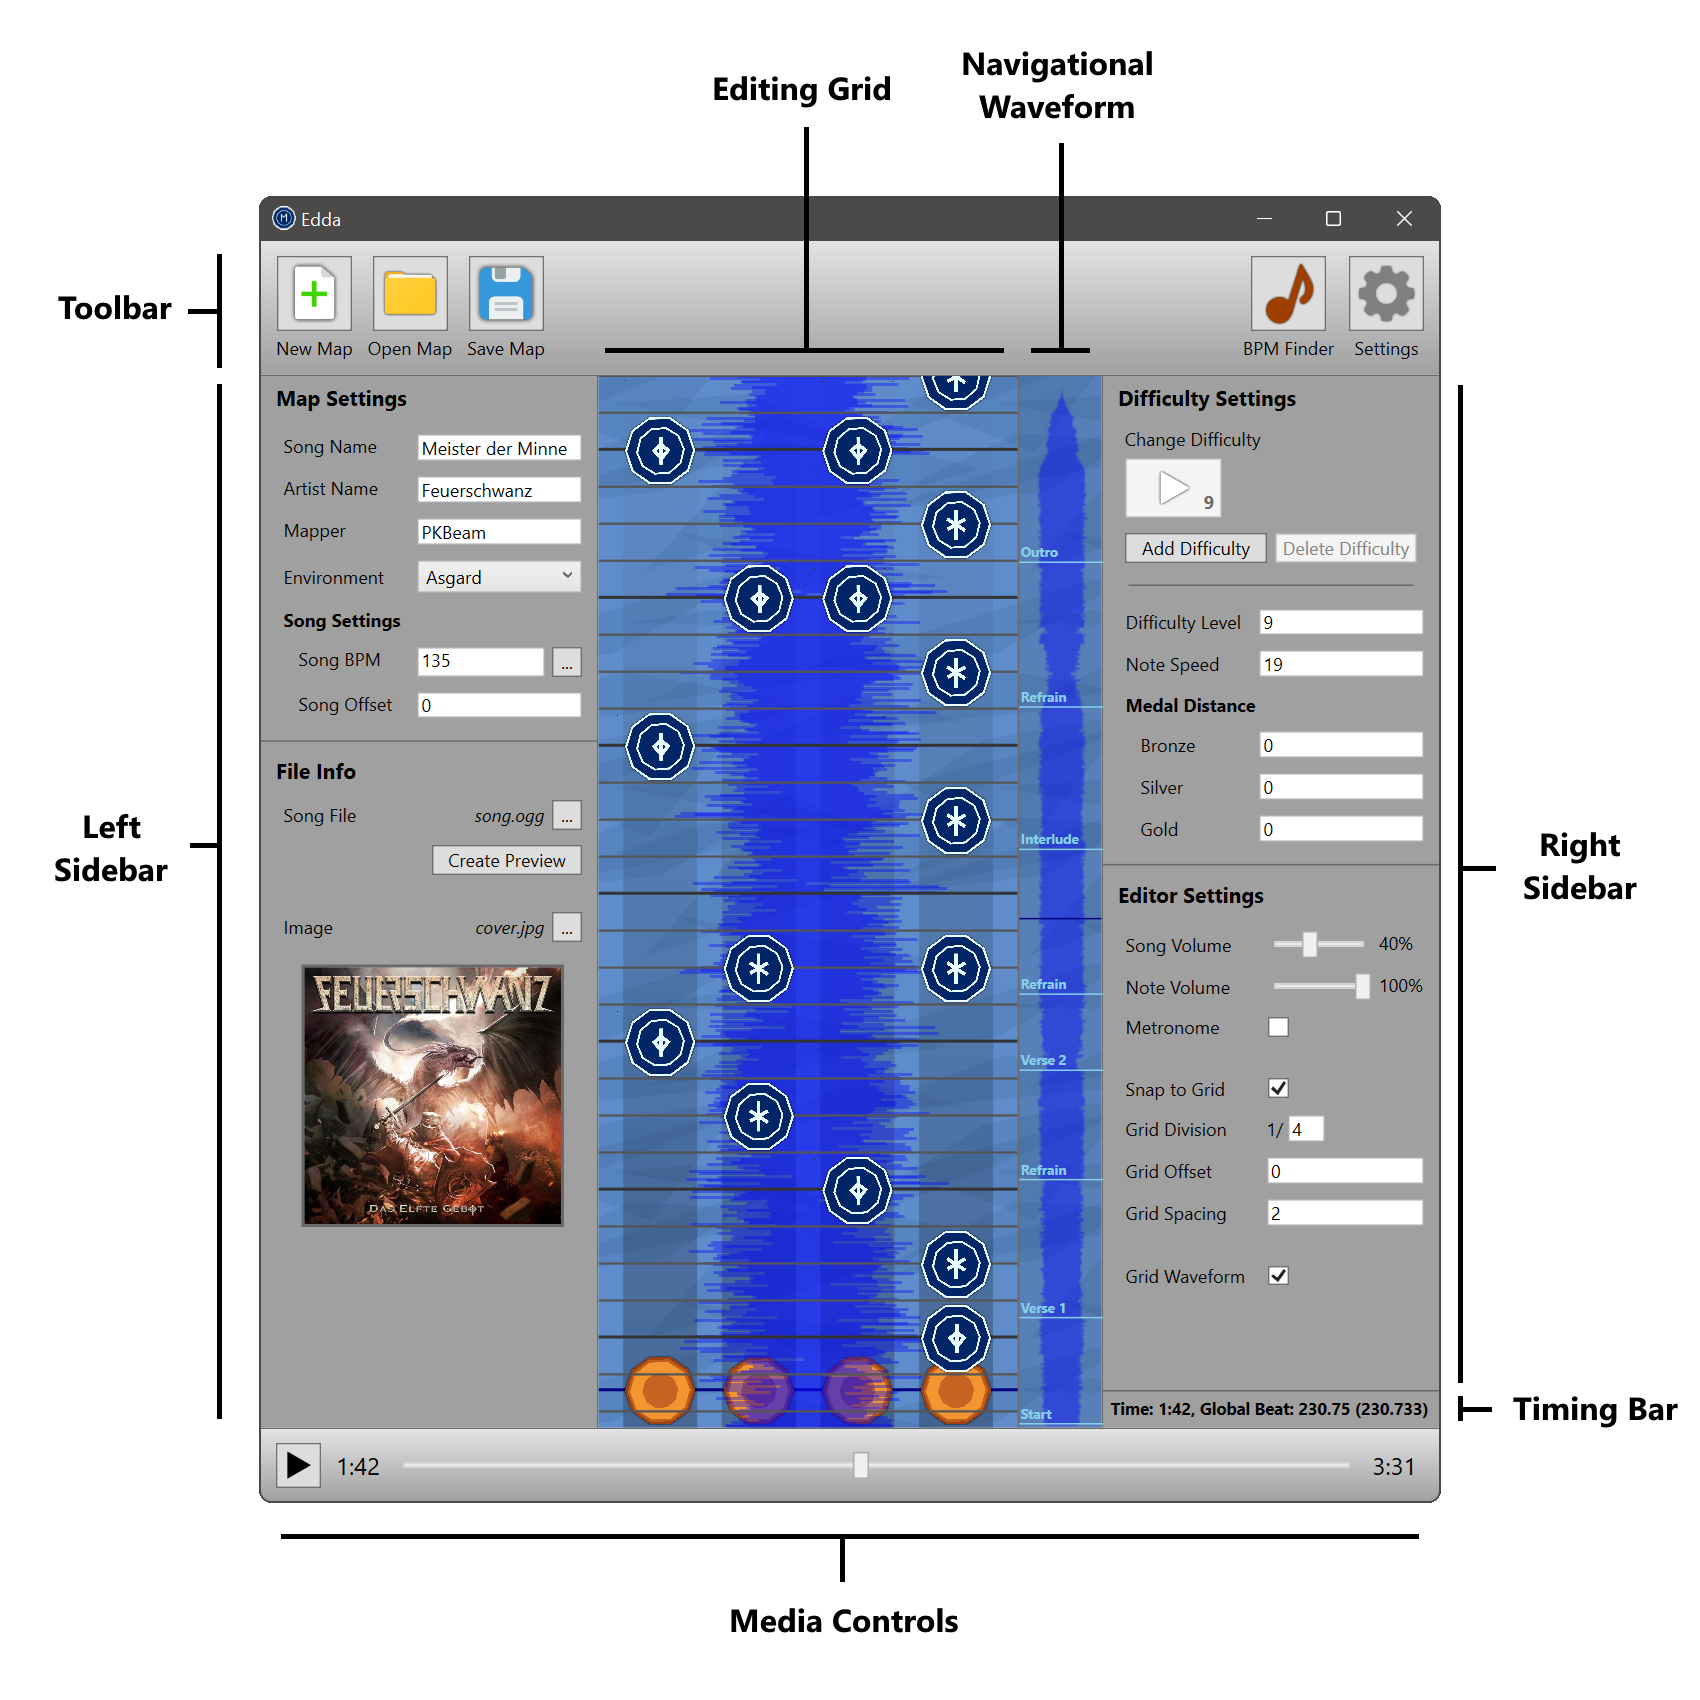
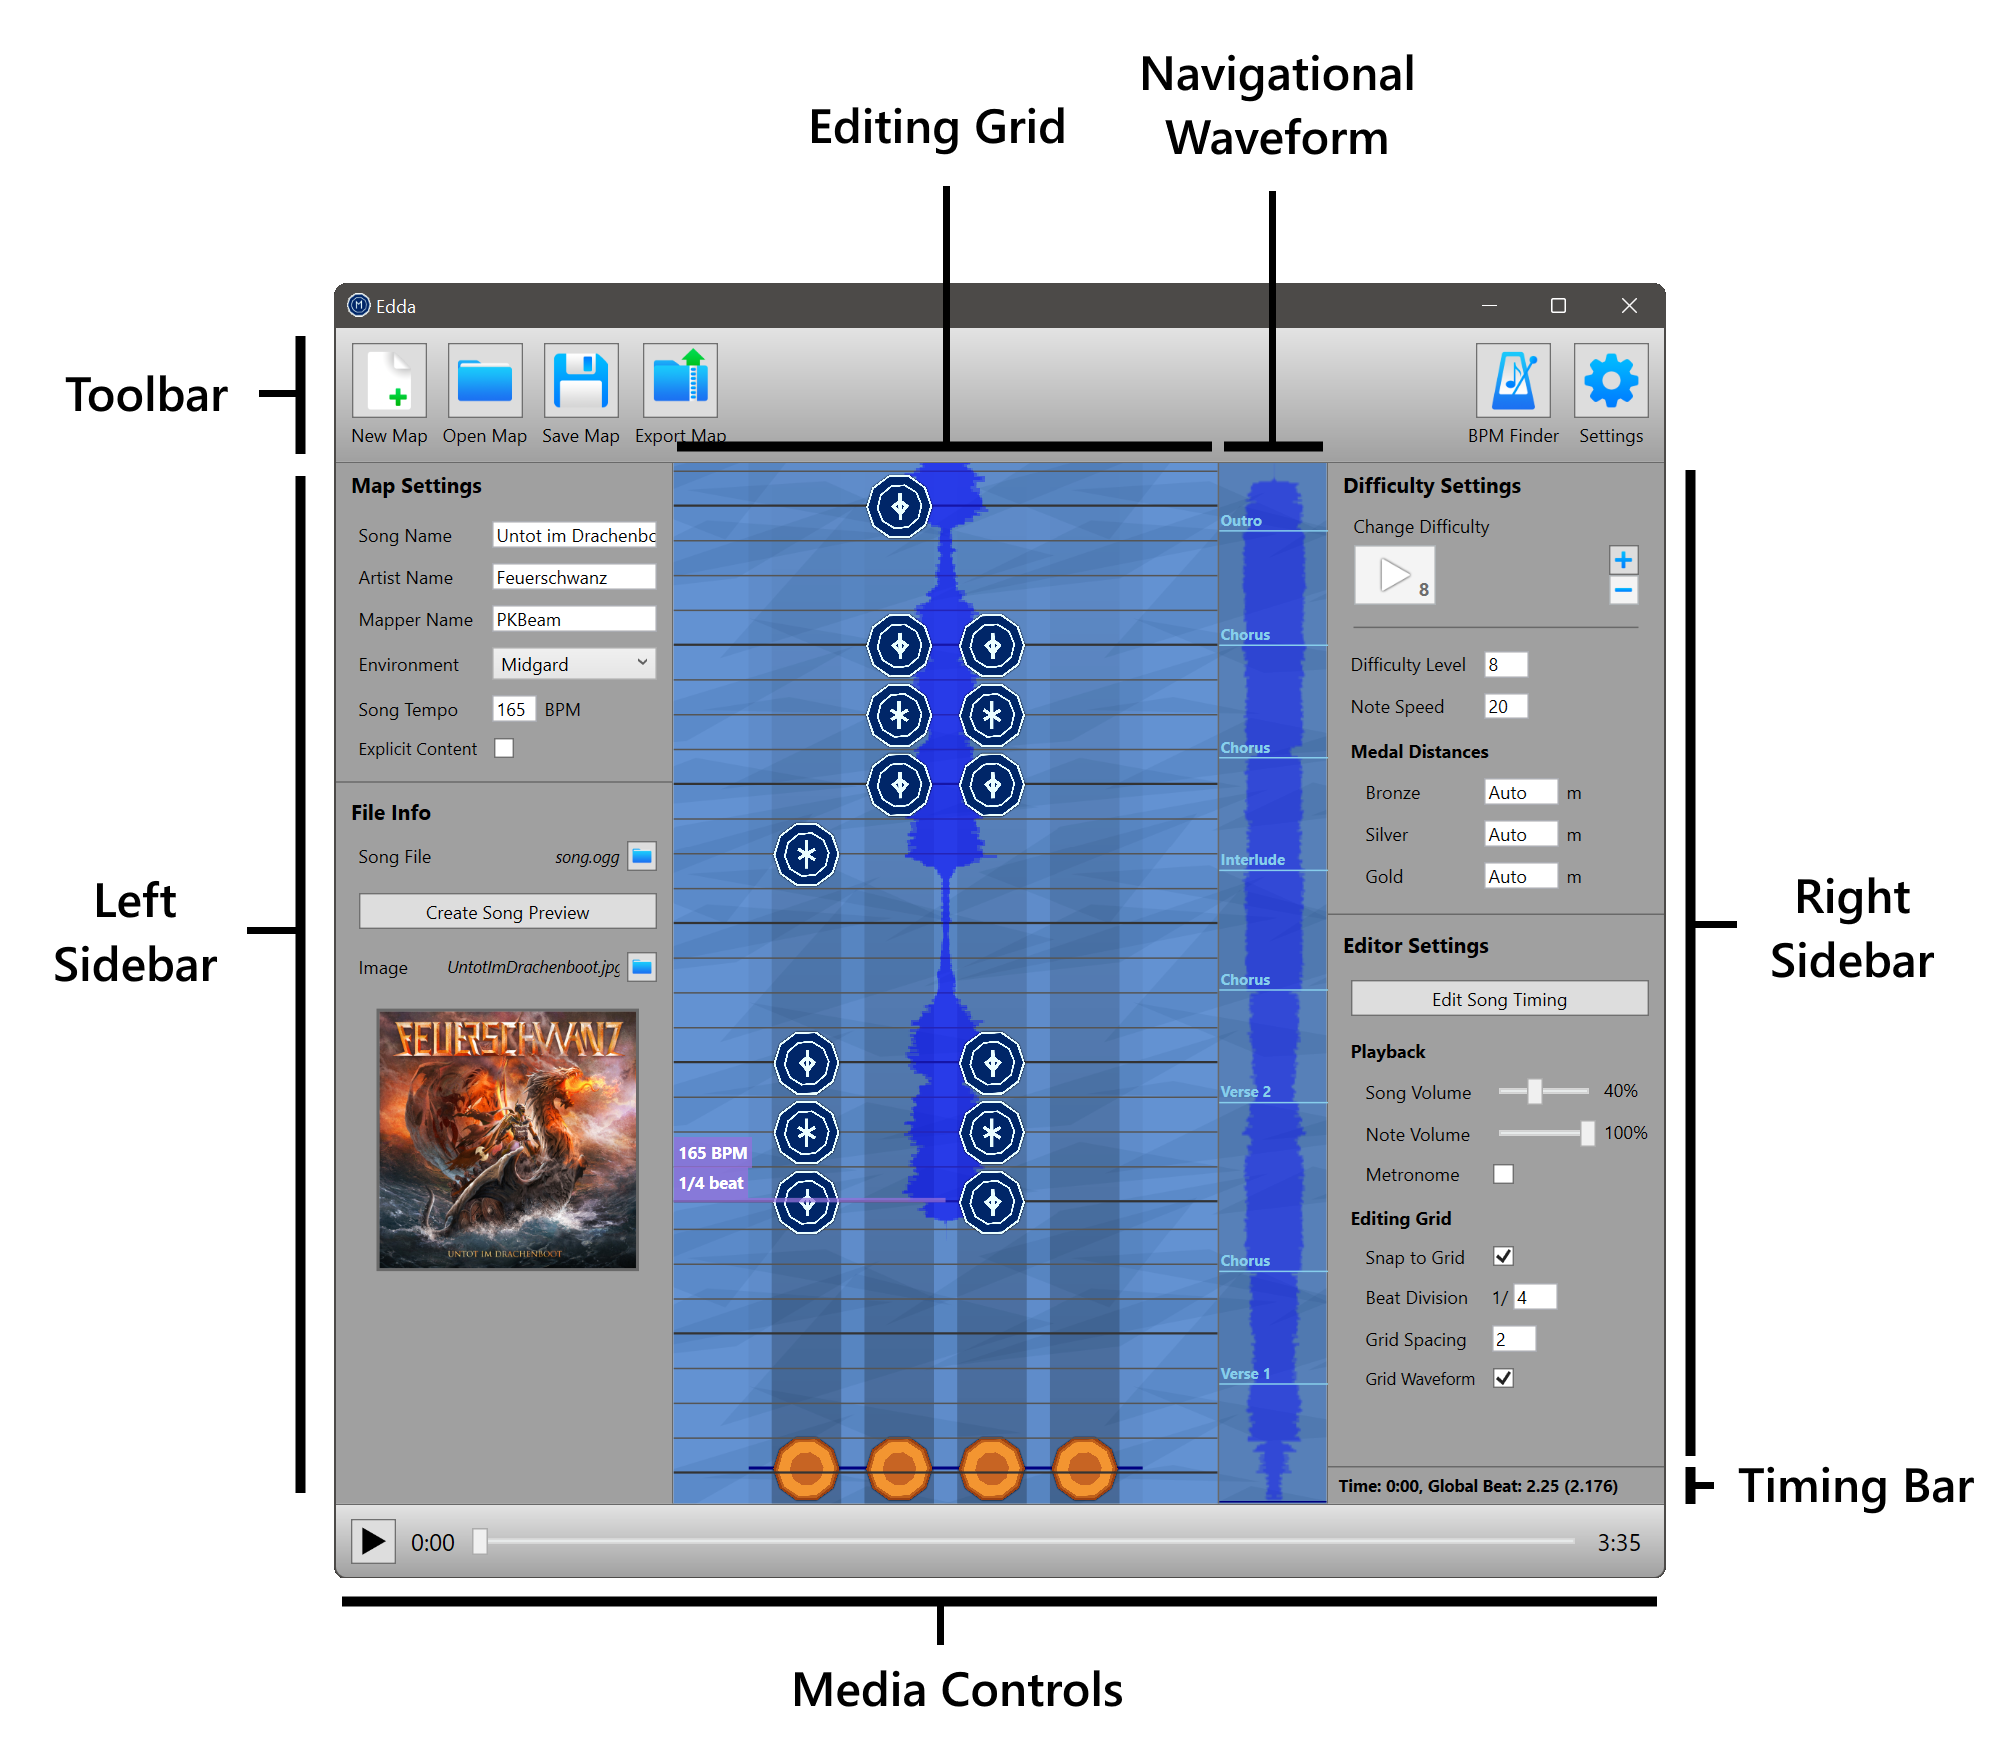
update for v1.0.0 and v1.0.1

diff --git a/advanced-topics.md b/advanced-topics.md
@@ -4,27 +4,34 @@
 
 Now that you're comfortable with using Edda, here are some more advanced topics to help you make the most of your mapping experience.  
 
+- [Settings](#settings)
 - [Backups](#backups)
 - [Timing changes](#timing-changes)
 - [Note runes](#note-runes)
 - [Audio latency](#audio-latency)
   - [Technical details](#technical-details)
 - [Drum hitsounds](#drum-hitsounds)
+- [Map save location](#map-save-location)
+
+## Settings
+
+Since Edda v1.0.0, the settings are automatically stored in `AppData/Roaming/Edda/settings.txt`.
+
+You can migrate settings from other Edda installs by replacing `settings.txt`. 
 
 ## Backups
 
 Edda periodically keeps backups of your maps in the `autosaves` folder that is located in the folder your map is in.  
 
-In this folder there will be up to ten folders with names that look like `Backup - 08 October 2021 4.23PM`. Inside these backup folders are `.dat` files for each mapped difficulty.  
+In this folder there will be up to ten folders with names in the form of `Backup - 08 October 2021 4.23PM`. Inside these backup folders are `.dat` files for each mapped difficulty.  
 
 This is so you can recover your work if a bug or issue causes a data wipe. (Please feel free to [report](https://github.com/PKBeam/Edda/issues) any such issues).
 
-Backups are made every time a map is saved, *except when the save is an autosave*, so make sure to occasionally do a manual save (e.g. Ctrl-S, click the "Save Map" button, or save when prompted on closing Edda).
+Backups are made every time a map is *manually* saved (autosaves do not count), so make sure to occasionally save using Ctrl-S or the "Save Map" button, or save when prompted on closing Edda.
 
 > **NOTE**: You can turn autosaves on and off in the Settings menu, under **Editor**. Autosaves happen every 30 seconds.
 
 To restore a backup, you must manually copy the `.dat` files in the backup folders back into the root of your map folder.
-
 
 ## Timing changes 
 
@@ -38,15 +45,15 @@ Many songs, however, will change their BPM at some point. You don't want to resp
 
 To add a timing change, you can either use `Ctrl-T` or `Ctrl-Shift-T` or click the "Edit Song Timing" button in the right sidebar.
 
-To specify a timing change the latter way, you need three things:
+To specify a timing change the latter way, you need to input three things:
 
 - the *Global Beat* where the timing change begins,
 - the new *BPM* that will come into effect, and
 - the *Beat Division* during this timing change.
 
-> **NOTE**: Edda's timing changes are mostly compatible with MMA2's BPM changes, except for the `_metronomeOffset` field (which is unused by Edda).
+> **NOTE**: Edda's timing changes are mostly compatible with MMA2's BPM changes (except for the `_metronomeOffset` field, which is ignored by Edda).
 
-The *Global Beat* of a point in the song is the beat it would be located on if the *Song BPM* (or Global BPM) was in use for the entire song. 
+The *Global Beat* of a point in the song is the beat it would be located on if the *Song Tempo* (or Global BPM) was in use for the entire song. That is, the beat it would be located on if the song had no BPM changes whatsoever.  
 You can think of it as an alternative to a minutes/seconds timestamp for referencing a point in the song.
 
 To find the *Global Beat*, you can use the timing bar.
@@ -55,18 +62,18 @@ When you move your mouse over the editing grid (or navigational waveform), the t
 
 Two values are shown for the global beat:
 - the first value is the global beat after the mouse position is snapped to the gridlines.
-- the second value (in brackets) is the global beat before snapping.
+- the second value (in brackets) is the *exact* global beat, before snapping.
 
-Typically, you want to use the second, unsnapped value when specifying a timing change.
+Typically, you want to use the second, unsnapped value when specifying a timing change. If you want to specify a timing change that does not change the BPM, you should use the first value (the snapped one).
 
-The *BPM* field is, predictably, the new BPM that you want to change to. You can find this with the help of Edda's BPM finder tool in the toolbar.
+The *BPM* field is, predictably, the new BPM that you want to change to. You can find this with the help of Edda's BPM Finder tool in the toolbar.
 
 Often a timing change will coincide with a time signature change. This could mean that beats are now divided differently. For example, a beat is now divided into thirds instead of quarters. If this happens, you can use the *Beat Division* field to specify the new beat division.
 
 If the beats are not divided differently after the timing change, you should keep the *Beat Division* the same as before.   
 
 > **NOTE**: You can use a timing change to temporarily adjust the *Beat Division* by leaving the *BPM* field the same as before.  
-> This can be useful if there are just a few beats in the song that are divided differently than the rest.
+> This can be useful if there are a few beats in a section that are divided differently than the rest.
 
 ## Note runes
 
@@ -108,7 +115,7 @@ Knowing *which* note has the ᚷ rune also informs players preciesly how they sh
 
 If you don't tell Ragnarock what the BPM is or where the timing changes are, then it won't know which beat a note is placed on. That means all the notes will probably have an ᚷ rune on them, which makes it harder for players to do things like play arpeggiated notes. 
 
-So the lesson here is to map out your BPM and timing changes properly! It makes it much nicer for the people that play your map.  
+So map out your BPM and timing changes properly! It makes it much nicer for the people that play your map.  
 
 ## Audio latency
 
@@ -155,4 +162,18 @@ By default, drum hitsounds are panned. That means if a note is played on the lef
 Some users may find panned audio harder to hear or may experience audio playback issues with panned audio. Panned audio can be disabled in the Settings menu (under **Audio Playback**, then *Pan Note Sound*).  
 
 When panned audio is disabled, all drum hitsounds will be played in the middle of both ears.  
+
+## Map save location
+
+Ragnarock lets you store your custom maps in two locations: in your Documents folder or in the game install folder.  
+
+In the Settings menu under *Map Save Location*, you can choose which of these locations Edda will automatically bring up when you open or create a map.
+
+The *Documents* option is the default one.
+
+If you choose the *Game Install* option, you must specify the folder that Ragnarock is installed in. For Steam installs, this will be the folder `.../steamapps/common/Ragnarock`.
+
+> **NOTE**: This feature has not been tested on Oculus Store installs.
+
+Once selected, this path is shown in blue in the Settings menu and can be respecified by clicking on it.
 

diff --git a/using-edda.md b/using-edda.md
@@ -69,7 +69,7 @@ Click the "BPM Finder" button at the top of Edda's main window.
 
 Play the song in Edda, then bring up the BPM finder window and tap any key to the beat.
 
-Once you feel that you've tapped enough beats, look at the average BPM displayed and put it in the *Song BPM* under the left sidebar of the main window (you might want to round it to the nearest integer).
+Once you feel that you've tapped enough beats, look at the average BPM displayed and put it in the *Song Tempo* under the left sidebar of the main window (you might want to round it to the nearest integer).
 
 ### Aligning the song
 
@@ -99,9 +99,9 @@ Be sure to check both at the start *and* at the end of your song:
 
 - If you've made an error placing the BPM change at the start of your song, it will become obvious there.
 
-- If you've made an error specifying the *Song BPM*, it will be easiest to find out at the end of the song - that's where all the BPM errors will accumulate.
+- If you've made an error specifying the *Song Tempo*, it will be easiest to find out at the end of the song - that's where all the BPM errors will accumulate.
 
-Make sure your timing is as close to perfect as possible before you move on: you don't want to come back after placing thousands of notes to find that there's a mistake with the timing.  
+Make sure your timing is as close to perfect as possible before you move on - you don't want to come back after placing thousands of notes to find that there's a mistake with the timing.  
 
 > **NOTE**: If you are having audio sync issues, check out the page on [Audio Latency](advanced-topics#audio-latency).
 
@@ -149,16 +149,13 @@ You can create a new bookmark by positioning your mouse where you want the bookm
 
 You can mouse over either the editor grid (for more accuracy) or the navigational waveform. 
 
-Clicking on a bookmark in the navigational waveform will set the song's position to that point.
+Clicking on a bookmark in the navigational waveform will let you jump to that location in the map.
 
 To rename a bookmark, right-click it.
 
 To delete a bookmark, middle-click it.
 
-Bookmarks will also show up on the editing grid, but cannot be modified there.
-
 > **NOTE**: Edda's bookmarks are fully compatible with MMA2's bookmarks.
-
 
 ### Difficulty Settings
 
@@ -180,11 +177,11 @@ The *Difficulty Level* is a number from 1 to 10 (inclusive) that represents how 
 
 The *Note Speed* is how fast the runes approach you when you play the map in-game. You'll have to experiment with this in the game to get a feel for what the numbers mean. A good place to start is 15, which represents an average speed. You can increase this a few units to make the notes approach even faster.
 
-**Medal Distances** represent how many metres your boat must row in order to achieve a certain medal. In most cases, you should leave these blank, set to 0 or on "Auto" so that Ragnarock will automatically calculate medal distances for you.  
+**Medal Distances** represent how many metres your boat must row in order to achieve a certain medal. In most cases, you should leave these set to "Auto" so that Ragnarock will automatically calculate medal distances for you.  
 
 ## Mapping Notes
 
-Now that everything else is set up, let's start mapping for real.
+Now that everything else is set up, let's start placing notes.
 
 While you map, it might be helpful to refer to the *Grid Waveform*.
 

diff --git a/controls.md b/controls.md
@@ -4,7 +4,7 @@
 
 ## Mouse Controls
 
-### Editing Grid
+### Notes
 
 Click and drag to select multiple notes.
 
@@ -14,11 +14,19 @@ Shift+Left-click to add or remove a note to/from the selection.
 
 Right-click to delete a note or clear the selection.
 
-### Navigational Waveform
+### Markers
 
-Double-click a bookmark to rename it.
+**On the editing grid:**
 
-Right-click a bookmark to delete it.
+Click and drag a bookmark or timing change to move it (hold Shift to snap to grid).
+
+**On the navigational waveform:**
+
+Right-click a bookmark to rename it.
+
+Right-click a timing change on either the BPM or beat division fields to edit them.
+
+Middle-click a bookmark or timing change to delete it.
 
 ## Keyboard Controls
 
@@ -48,5 +56,3 @@ Edda comes with many keyboard shortcuts for ease of use.
 |**Escape**    |Unselect all notes
 |**Space**    |Play/Pause song
 |**1**, **2**, **3**, **4**     |Add notes on the 1st/2nd/3rd/4th column | If the song is playing, the notes are placed on the scan line. Otherwise, they are placed on the mouse cursor.
-
-Bookmarks (in the navigational waveform) and timing changes can be edited by right-clicking them. They can be deleted by middle-clicking them. 

diff --git a/getting-started.md b/getting-started.md
@@ -4,6 +4,7 @@
 
 Want to make your own Ragnarock maps? Let's get started.  
 
+- [System requirements](#system-requirements)
 - [Installation](#installation)
 - [Setting up your song](#setting-up-your-song)
   - [Choosing a good song](#choosing-a-good-song)
@@ -11,10 +12,15 @@ Want to make your own Ragnarock maps? Let's get started.
     - [Lossless encoding](#lossless-encoding)
     - [Lossy encoding](#lossy-encoding)
 
-## Installation
+## System requirements
+
 To run Edda, you'll need a computer with Windows 10 or Windows 11.  
 
-> **NOTE**: If you have a Linux or macOS computer, you may be able to use something like [WINE](https://www.winehq.org) or [Parallels](https://www.parallels.com/) to run Windows programs.
+> **NOTE**: If you have a Linux or macOS computer, you may be able to use software like [WINE](https://www.winehq.org) or [Parallels](https://www.parallels.com/) to run Windows programs.  
+>
+> Older versions of Windows (up to Windows 7) may work, but are not officially supported.
+
+## Installation
 
 Start by going to the GitHub repository's [Releases section](https://github.com/PKBeam/Edda/releases). There will be two `.zip` packages for you to download. 
 

diff --git a/index.md b/index.md
@@ -1,7 +1,7 @@
 ---
 ---
 
-> **NOTE**: This website was last updated for Edda v0.4.6 and Edda v1.0.0 Beta 1.
+> **NOTE**: This website was last updated for Edda v1.0.1.
 
 # About Edda
 Edda is a beatmap editor for the VR rhythm game [Ragnarock](https://store.steampowered.com/app/1345820/Ragnarock/).  
